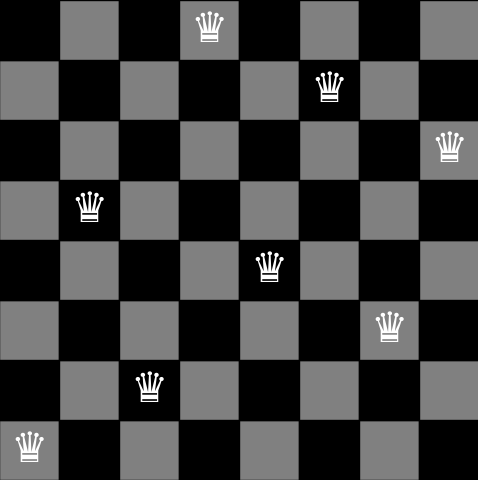
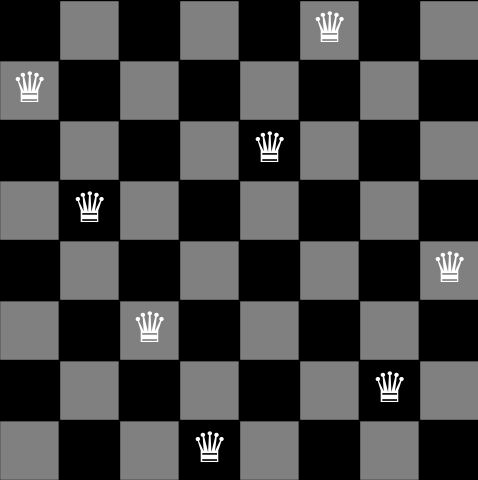
fix: bugs and README update

diff --git a/utils.py b/utils.py
@@ -41,7 +41,7 @@ def fitness(vector, binary=False):
             
     return fitness
 
-def stochasticHillClimbing(stepMode = 0, verbose = False):
+def stochasticHillClimbing(stepMode = 1, verbose = False):
     initialTime = time.time()
     vector = [random.randint(0, 7) for _ in range(8)]
     fitnessVector = fitness(vector)
@@ -83,6 +83,7 @@ def stochasticHillClimbing(stepMode = 0, verbose = False):
         if newFitness > fitnessVector:
             fitnessVector = newFitness
             vector = newState
+            fails = 0
         else:
             fails += 1
     

diff --git a/main.py b/main.py
@@ -1,4 +1,4 @@
-from utils import *
+from utils import showStatistics
 
 def main():
     # Stochastic Hill Climbing

diff --git a/README.md b/README.md
@@ -43,26 +43,26 @@ Stochastic Hill Climbing is a variation of the Hill Climbing algorithm that make
 Running the Stochastic Hill Climbing 50 times, with a MAXFAILS = 500, we obtain the following metrics:
 
 - ITERATIONS NUMBERS
-    * Average: 493.76
-    * Standard deviation: 62.41043502492192
+    * Average: 507.88
+    * Standard deviation: 175.60337582176487
 - EXECUTION TIME
-    * Average: 0.0026327848434448244
-    * Standard deviation: 0.0006460846532528766
+    * Average: 0.0027778816223144533
+    * Standard deviation: 0.0010211321562727837
 - FITNESSES
-    * Average: 24.511111111111113
-    * Standard deviation: 1.1278735591510685
+    * Average: 26.466666666666665
+    * Standard deviation: 0.7180219742846006
 
 With this configuration, the 5 best solutions obtained were:
-* 1 - Solution N1: [4, 6, 1, 3, 7, 0, 2, 5]; Fitness: 28
-    - <img src="attachments/Hill1.png" width="250"/>
-* 2 - Solution N2: [0, 1, 4, 7, 3, 6, 2, 5]; Fitness: 27
-    - <img src="attachments/Hill2.png" width="250"/>
-* 3 - Solution N3: [7, 3, 6, 0, 4, 1, 5, 2]; Fitness: 27
-    - <img src="attachments/Hill3.png" width="250"/>
-* 4 - Solution N4: [1, 3, 1, 6, 4, 2, 0, 5]; Fitness: 27
-    - <img src="attachments/Hill4.png" width="250"/>
-* 5 - Solution N5: [2, 4, 7, 0, 2, 6, 1, 3]; Fitness: 27
-    - <img src="attachments/Hill5.png" width="250"/>
+* 1 - Solution N1: [1, 4, 6, 3, 0, 7, 5, 2]; Fitness: 28
+    - <img src="attachments/Hill1.png" width="300"/>
+* 2 - Solution N2: [6, 2, 0, 5, 7, 4, 1, 3]; Fitness: 28
+    - <img src="attachments/Hill2.png" width="300"/>
+* 3 - Solution N3: [1, 3, 5, 7, 2, 0, 6, 4]; Fitness: 28
+    - <img src="attachments/Hill3.png" width="300"/>
+* 4 - Solution N4: [7, 1, 3, 0, 6, 4, 2, 5]; Fitness: 28
+    - <img src="attachments/Hill4.png" width="300"/>
+* 5 - Solution N5: [5, 3, 6, 0, 2, 4, 1, 7]; Fitness: 28
+    - <img src="attachments/Hill5.png" width="300"/>
 
 ### 2 - Genetic Algorithm
 The Genetic Algorithm (GA) is an optimization algorithm inspired by the process of natural selection. It employs genetic concepts such as mutation, crossover, and selection to evolve solutions over multiple generations. Fitter solutions have a higher chance of passing their characteristics to the next generation, enabling efficient exploration of the solution space in search of the optimal answer.
@@ -116,15 +116,15 @@ Running the Genetic Algorithm 50 times, with populationSize = 20, mutarioRate = 
 
 With this configuration, the 5 best solutions obtained were:
 * 1 - Solution N1: ['001', '100', '110', '000', '010', '111', '101', '011']; Fitness: 28
-    - <img src="attachments/Genetic1.png" width="250"/>
+    - <img src="attachments/Genetic1.png" width="300"/>
 * 2 - Solution N2: ['011', '110', '000', '111', '100', '001', '101', '010']; Fitness: 28
-    - <img src="attachments/Genetic2.png" width="250"/>
+    - <img src="attachments/Genetic2.png" width="300"/>
 * 3 - Solution N3: ['010', '000', '110', '100', '111', '001', '011', '101']; Fitness: 28
-    - <img src="attachments/Genetic3.png" width="250"/>
+    - <img src="attachments/Genetic3.png" width="300"/>
 * 4 - Solution N4: ['011', '001', '111', '100', '110', '000', '010', '101']; Fitness: 28
-    - <img src="attachments/Genetic4.png" width="250"/>
+    - <img src="attachments/Genetic4.png" width="300"/>
 * 5 - Solution N5: ['000', '110', '011', '101', '111', '001', '100', '010']; Fitness: 28
-    - <img src="attachments/Genetic5.png" width="250"/>
+    - <img src="attachments/Genetic5.png" width="300"/>
 
 ## Machine Specifications
 The results above were obtained using the following machine specifications:
